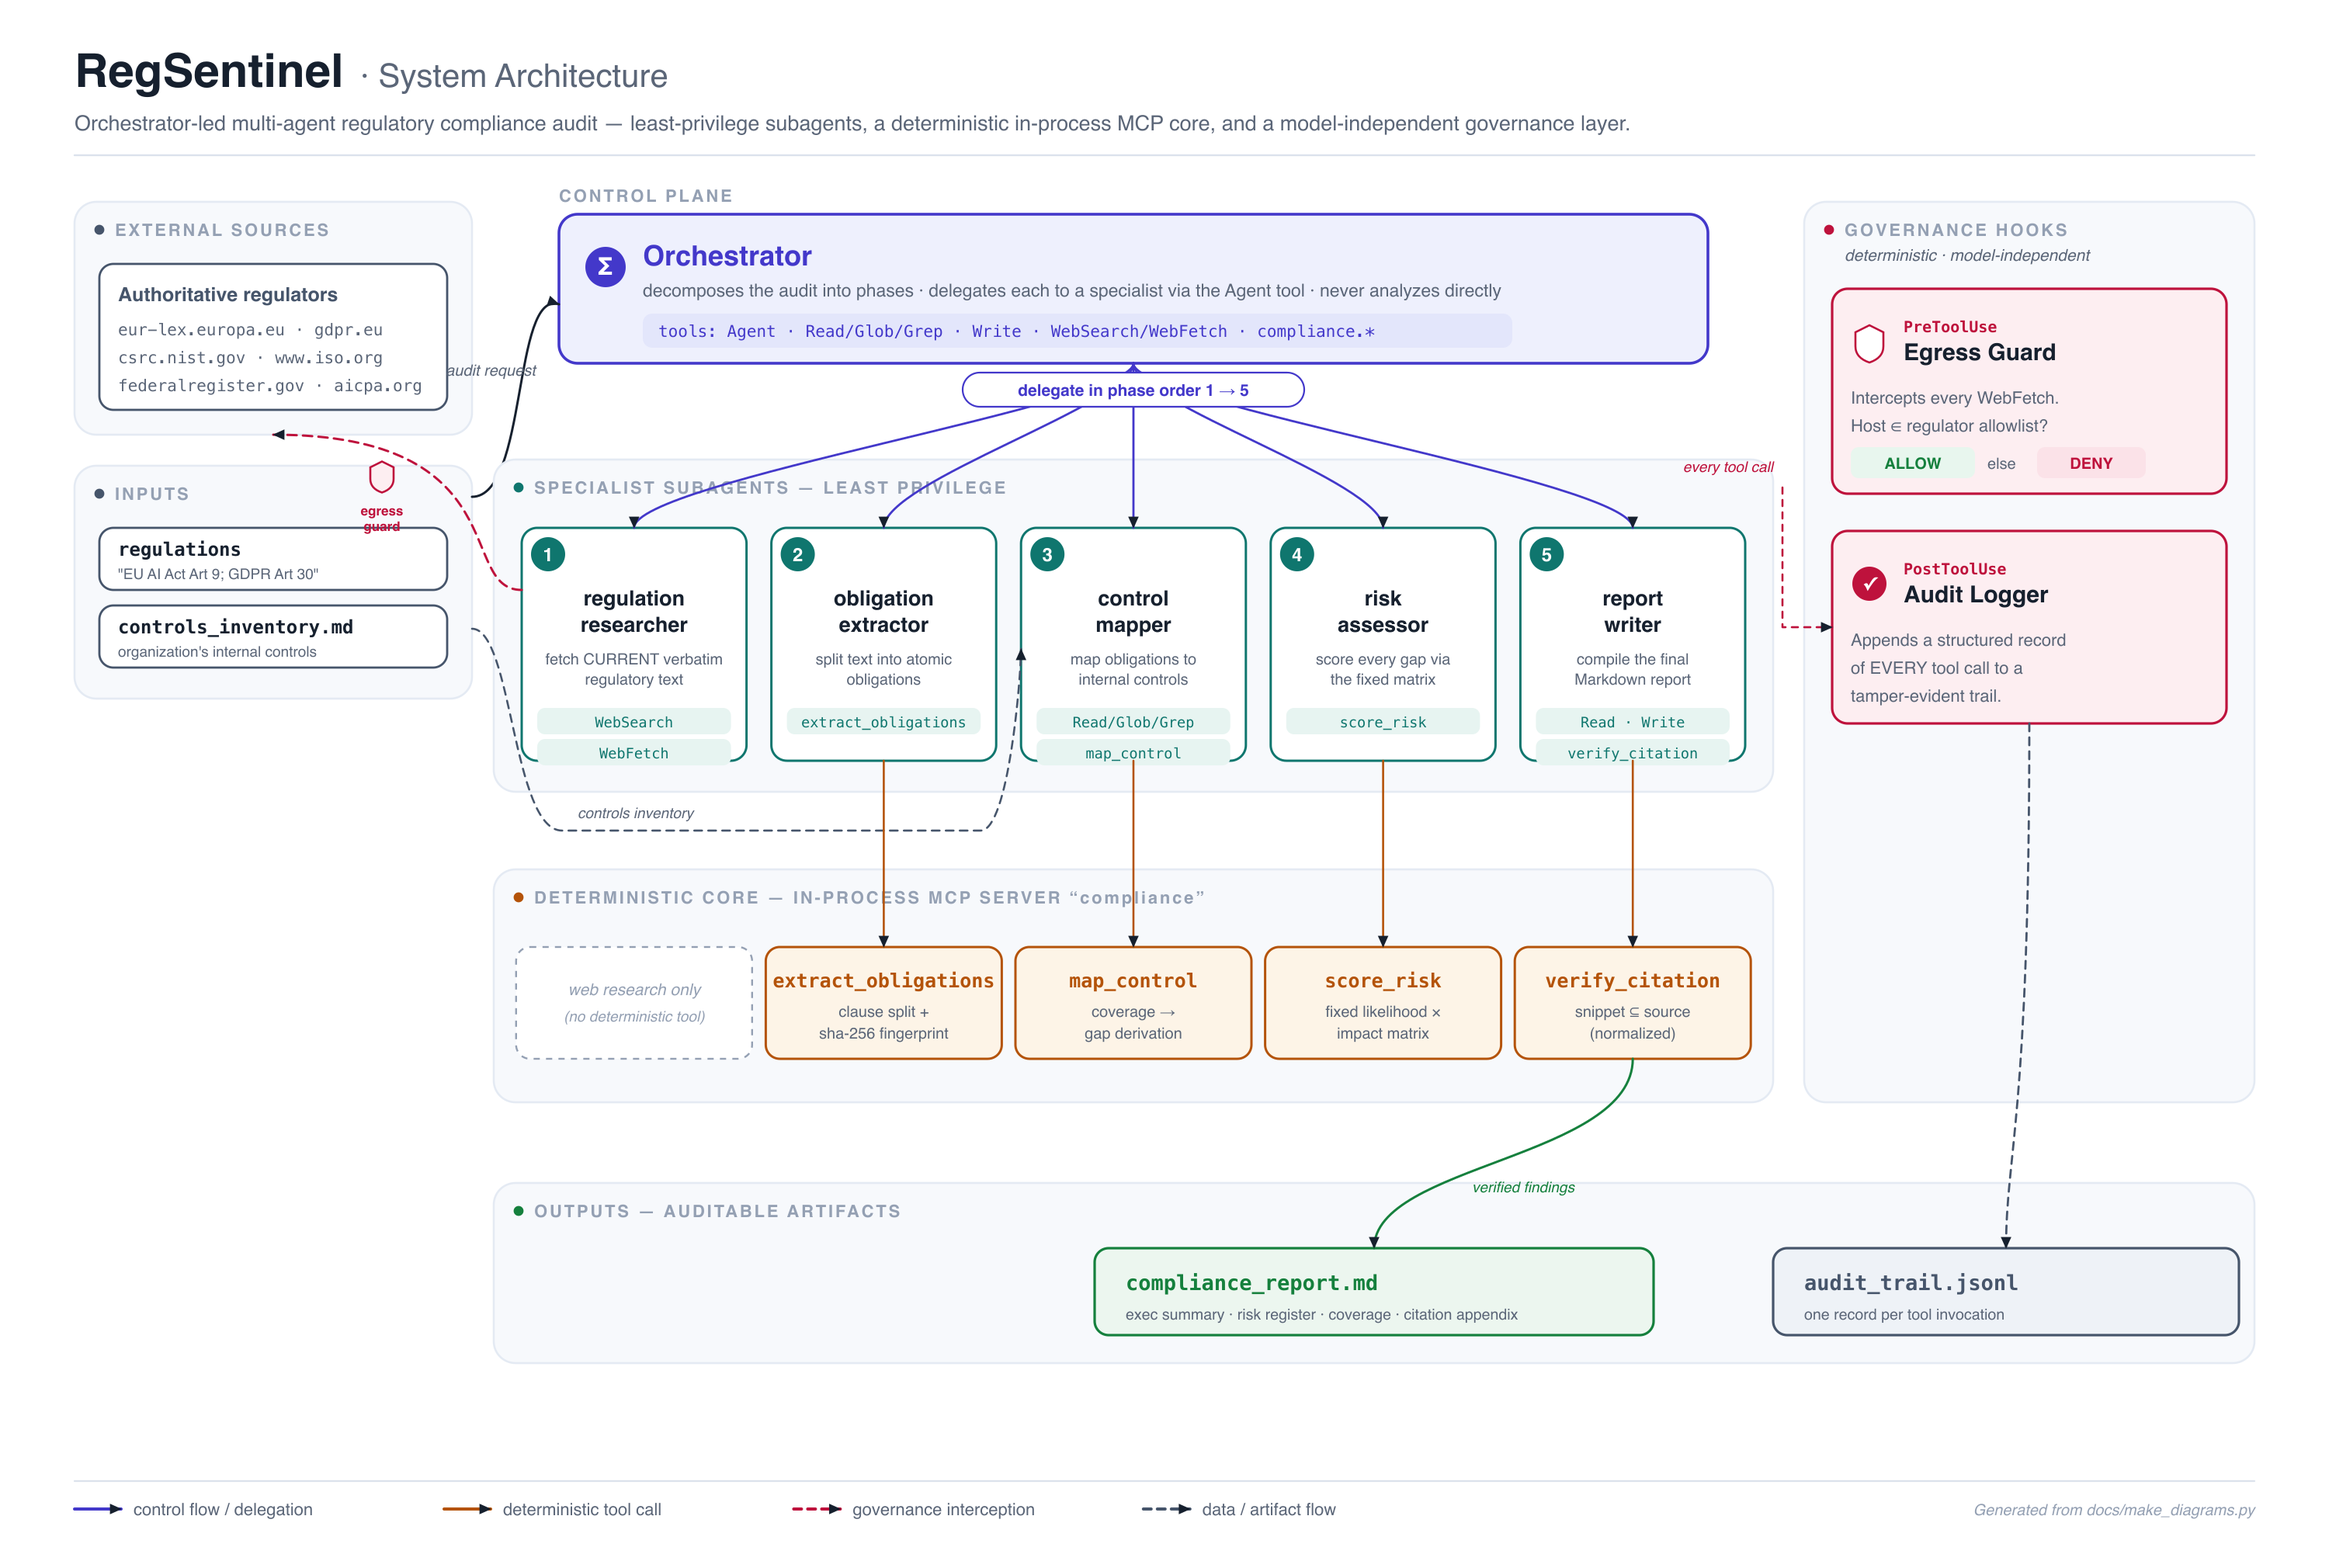
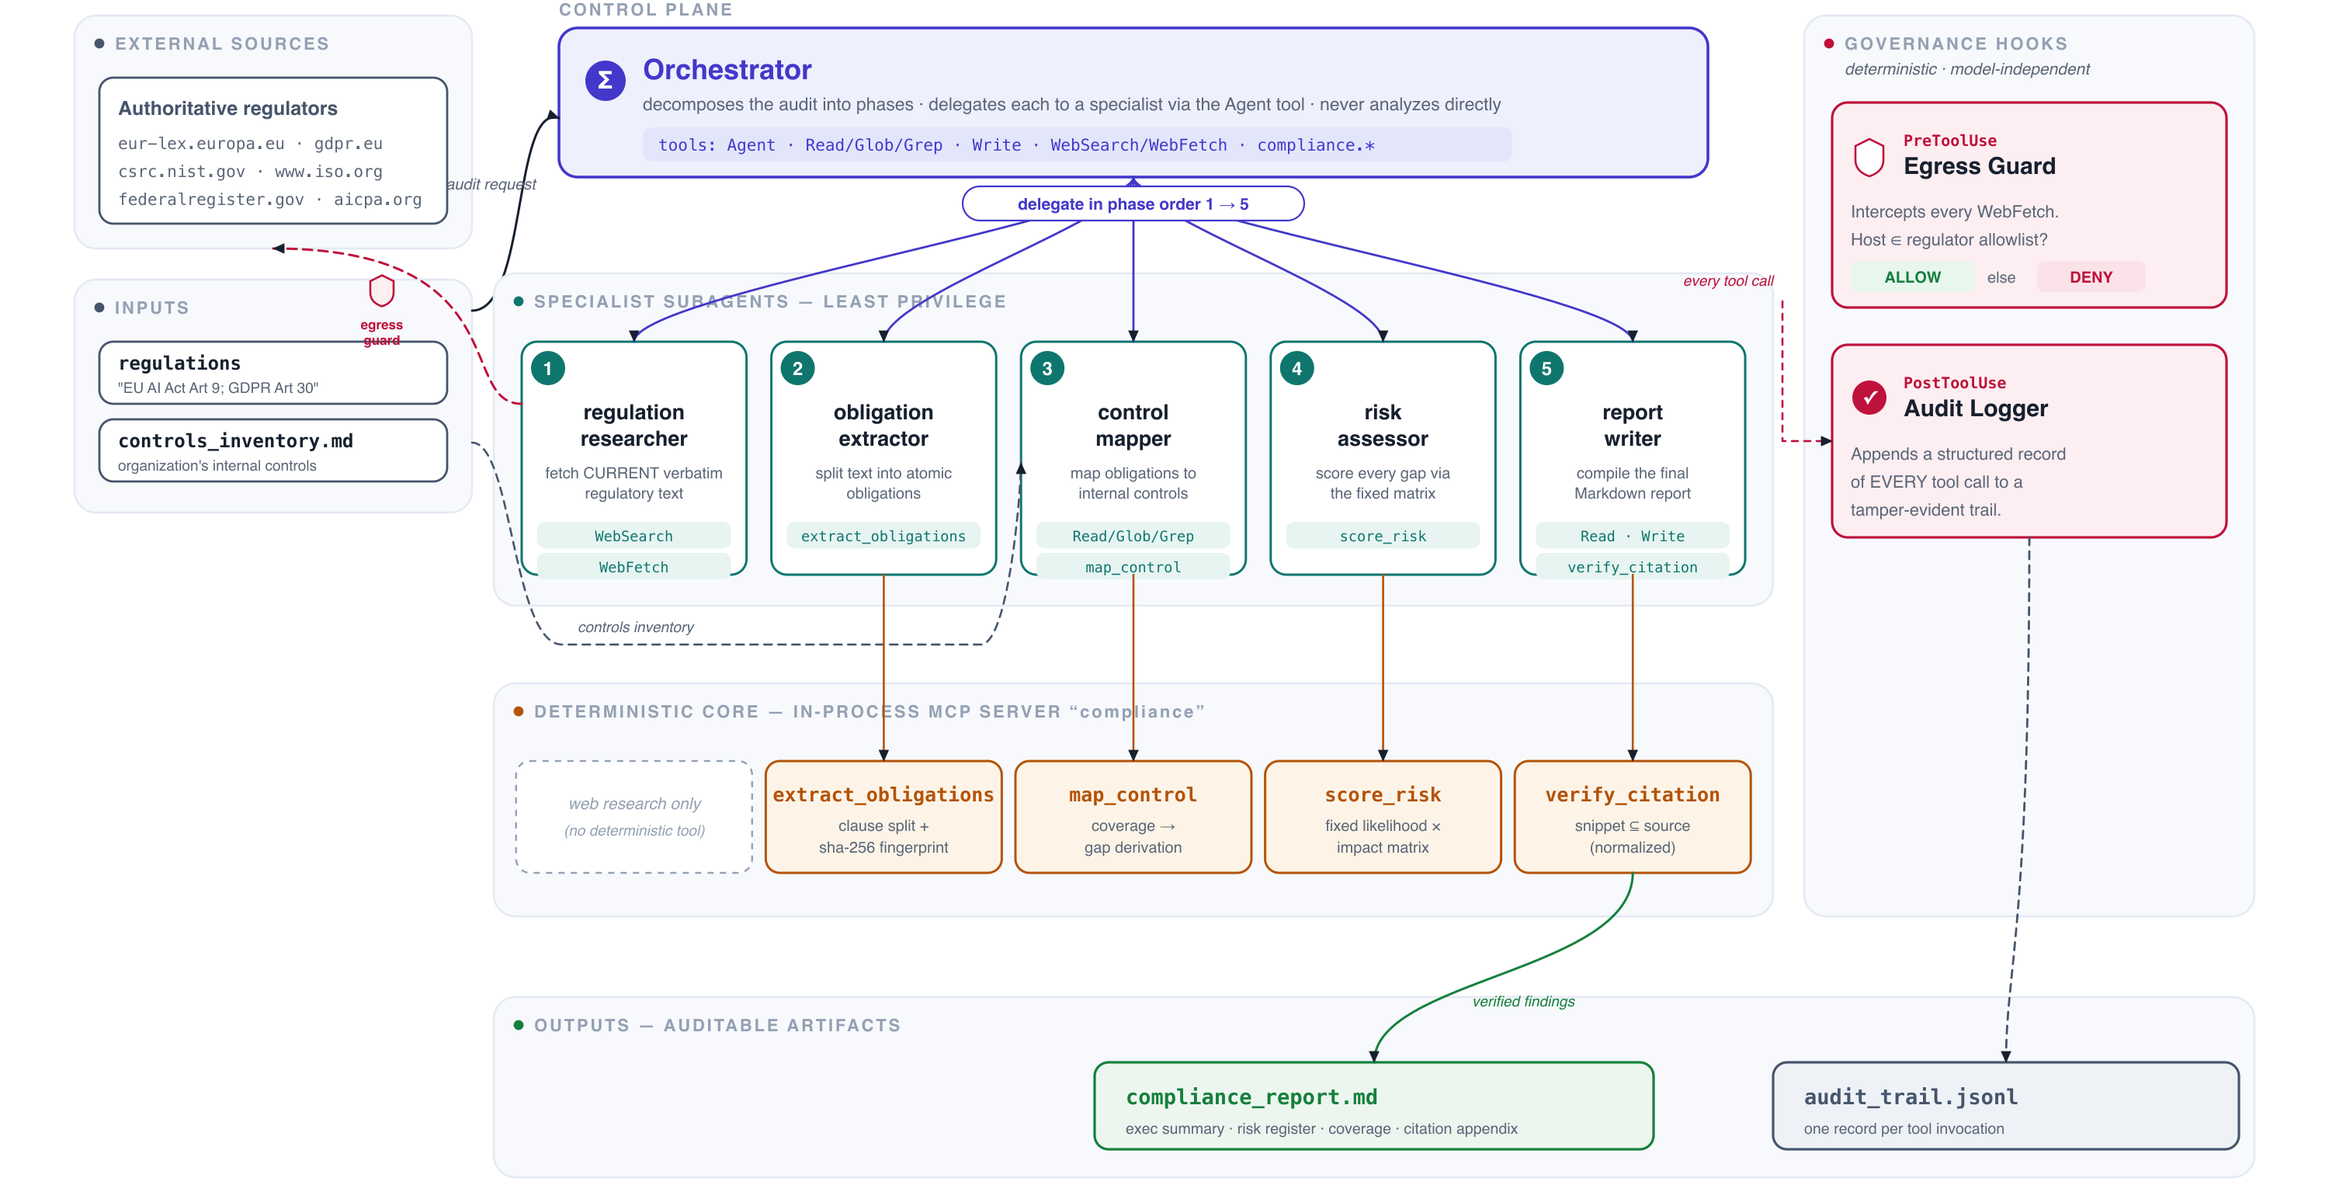
refactor diagrams
Both figures now render the architecture / pipeline only — header text and
the bottom legend/CI strip removed, viewBox cropped to the diagram region.

diff --git a/docs/make_diagrams.py b/docs/make_diagrams.py
@@ -81,7 +81,8 @@ class SVG:
         self.text(x + 26, y + 22, label, size=11, fill=PANEL_L, weight="700",
                   spacing="1.4")
 
-    def render(self) -> str:
+    def render(self, crop=None) -> str:
+        vx, vy, vw, vh = crop if crop else (0, 0, self.w, self.h)
         defs = (
             '<defs>'
             '<marker id="arrow" markerWidth="9" markerHeight="9" refX="7.2" refY="3.4" '
@@ -93,10 +94,10 @@ class SVG:
             '</defs>'
         )
         body = "\n".join(self.el)
-        return (f'<svg xmlns="http://www.w3.org/2000/svg" width="{self.w}" '
-                f'height="{self.h}" viewBox="0 0 {self.w} {self.h}" '
+        return (f'<svg xmlns="http://www.w3.org/2000/svg" width="{vw}" '
+                f'height="{vh}" viewBox="{vx} {vy} {vw} {vh}" '
                 f'font-family="{SANS}">\n'
-                f'<rect width="{self.w}" height="{self.h}" fill="{WHITE}"/>\n'
+                f'<rect x="{vx}" y="{vy}" width="{vw}" height="{vh}" fill="{WHITE}"/>\n'
                 f'{defs}\n{body}\n</svg>\n')
 
 
@@ -116,15 +117,7 @@ def build_architecture() -> str:
     W, H = 1500, 1010
     s = SVG(W, H)
 
-    # ---- header ----
-    s.text(48, 56, "RegSentinel", size=30, weight="700")
-    s.text(232, 56, "· System Architecture", size=21, weight="400", fill=SUB)
-    s.text(48, 84,
-           "Orchestrator-led multi-agent regulatory compliance audit — least-"
-           "privilege subagents, a deterministic in-process MCP core, and a "
-           "model-independent governance layer.",
-           size=13.5, fill=SUB)
-    s.line(48, 100, W - 48, 100, RULE, sw=1.2, marker=False)
+    # (title/subtitle header intentionally omitted — diagram only)
 
     # ---- external sources (left) ----
     ext_x, ext_y, ext_w, ext_h = 48, 130, 256, 150
@@ -359,24 +352,10 @@ def build_architecture() -> str:
     s.path(f"M{au_cx},{au_y + 124} C{au_cx},{o_py - 40} {a_x + a_w/2},{o_py - 20} "
            f"{a_x + a_w/2},{o_py + 42}", EXT_S, sw=1.4, dash="5 4")
 
-    # ---- legend ----
-    ly = H - 38
-    s.line(48, ly - 18, W - 48, ly - 18, RULE, sw=1.1, marker=False)
-    items = [
-        (ORCH_S, "control flow / delegation", False),
-        (MCP_S, "deterministic tool call", False),
-        (GOV_S, "governance interception", True),
-        (EXT_S, "data / artifact flow", True),
-    ]
-    lx = 48
-    for color, label, dash in items:
-        s.line(lx, ly, lx + 30, ly, color, sw=2.0, dash="5 4" if dash else None, marker=True)
-        s.text(lx + 38, ly + 4, label, size=11, fill=SUB)
-        lx += 38 + len(label) * 6.4 + 40
-    s.text(W - 48, ly + 4, "Generated from docs/make_diagrams.py", size=10, fill=PANEL_L,
-           anchor="end", italic=True)
+    # (bottom legend/footer intentionally omitted — diagram only)
 
-    return s.render()
+    # crop the canvas to the diagram region (no header/footer whitespace)
+    return s.render(crop=(0, 120, W, 772))
 
 
 # --------------------------------------------------------------------------- #
@@ -386,13 +365,7 @@ def build_eval_pipeline() -> str:
     W, H = 1500, 600
     s = SVG(W, H)
 
-    s.text(48, 54, "RegSentinel", size=28, weight="700")
-    s.text(218, 54, "· Evaluation Pipeline", size=20, fill=SUB)
-    s.text(48, 82,
-           "Four layers, cheapest-and-most-deterministic first. The unit and "
-           "guardrail layers gate every push with no API key; the model-driven "
-           "layers run when a key is configured.", size=13.5, fill=SUB)
-    s.line(48, 98, W - 48, 98, RULE, sw=1.2, marker=False)
+    # (title/subtitle header intentionally omitted — diagram only)
 
     layers = [
         (AG_S, AG_F, "UNIT", "deterministic MCP tools",
@@ -446,15 +419,10 @@ def build_eval_pipeline() -> str:
         x2 = centers[i][1]
         s.line(x2 + 4, cy + ch / 2, x2 + gap - 4, cy + ch / 2, INK, sw=1.6)
 
-    # CI footer
-    fy = cy + ch + 46
-    s.rect(48, fy - 26, W - 96, 44, PANEL_F, PANEL_S, sw=1.3, rx=10)
-    s.circle(74, fy - 4, 4, ORCH_S)
-    s.text(88, fy, "GitHub Actions  ·  pytest + unit + guardrail gate every push  ·  "
-           "agent + e2e run on ANTHROPIC_API_KEY  ·  results rolled up to "
-           "eval_summary.md", size=12, fill=INK)
+    # (CI footer intentionally omitted — diagram only)
 
-    return s.render()
+    # crop the canvas to the layer cards (no header/footer whitespace)
+    return s.render(crop=(0, 128, W, 338))
 
 
 def rasterize(svg_path: Path, width: int = 3000):
